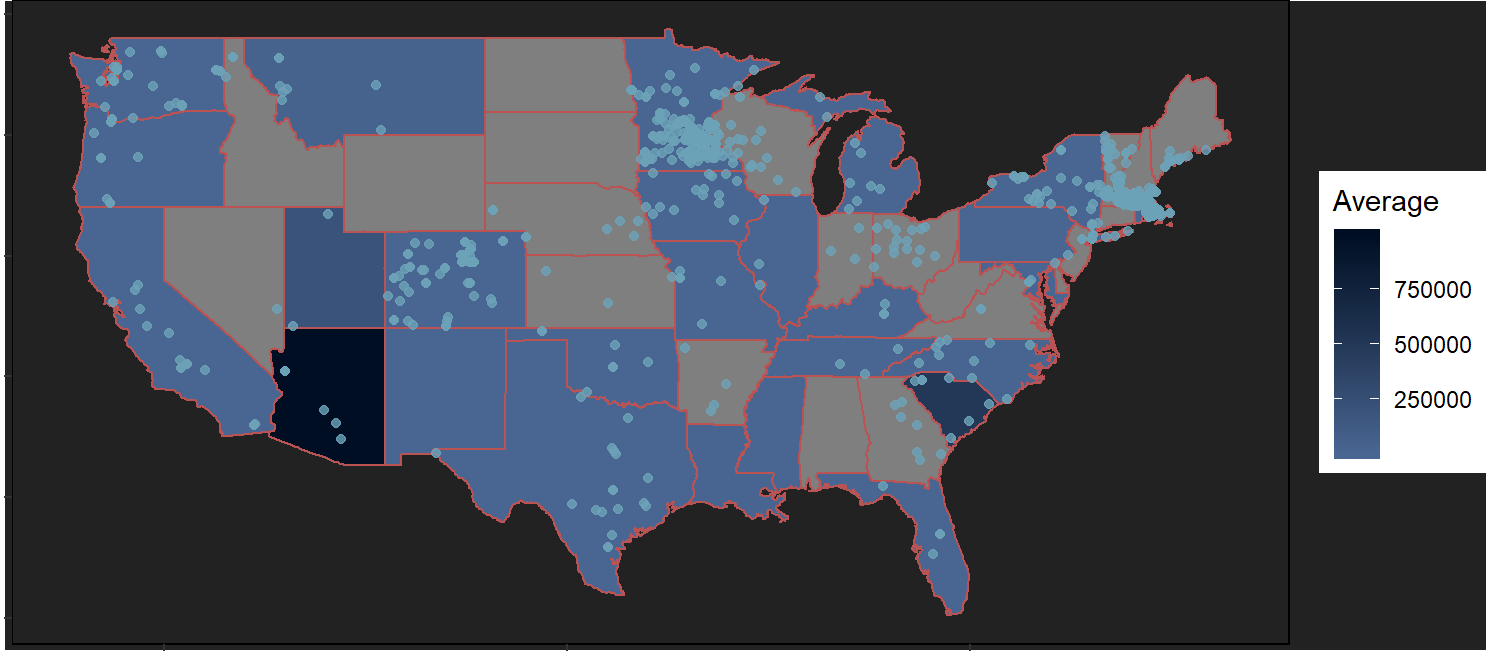
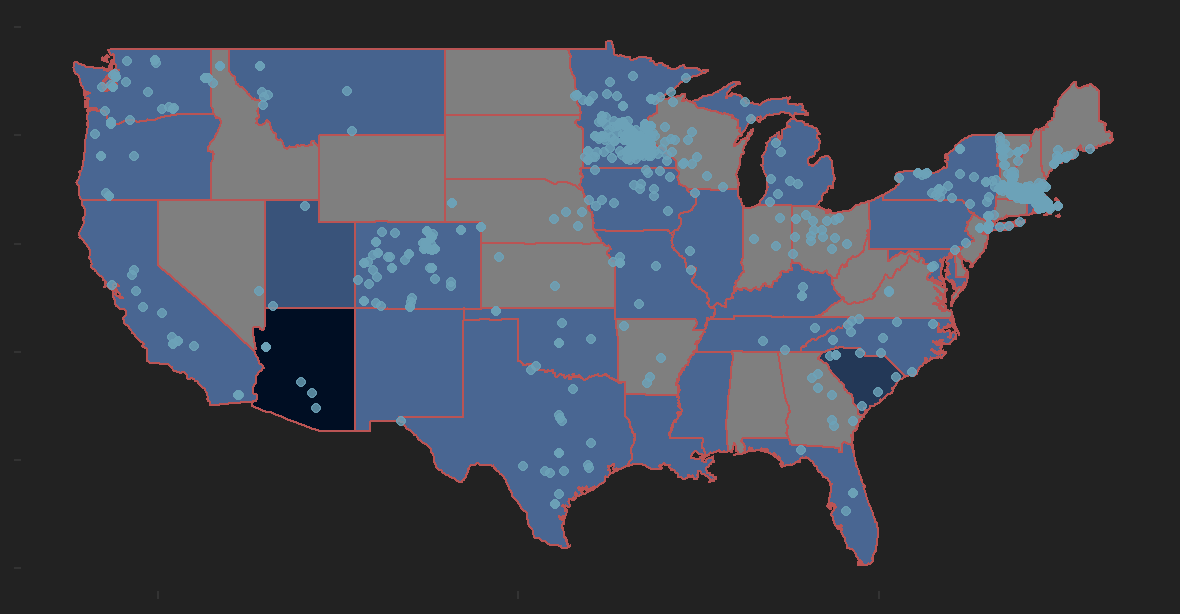
Commit

diff --git a/docs/index.html b/docs/index.html
@@ -395,6 +395,7 @@ div.tocify {
 color:black!important;
 }
 </style>
+
 <div id="introduction" class="section level1">
 <h1>Introduction</h1>
 <p>With the expansion of solar energy throughout the United States in the past year, community solar projects have become increasingly popular. Community solar projects often consist of a partnership between the public, government entities and the business sector to install solar energy throughout a community. The outcomes of such programs can be prosperous for all entities involved. Although a seemingly common sense solution to part of the nation’s energy challenge, community solar projects are a relatively new concept and spatial trends in where these projects are taking place.</p>
@@ -490,11 +491,43 @@ kwh_mean_state$State &lt;- tolower(kwh_mean_state$State)</code></pre>
 <li>Create custom themes (with and without legend)</li>
 </ol>
 <pre class="r"><code>#Create Custom theme 
-theme_black_nol&lt;- theme(plot.background = element_rect(fill = &#39;#222222&#39;), panel.background = element_rect(fill = NA),panel.border = element_rect(fill = NA), panel.grid = element_line(color = NA), axis.title = element_blank(), legend.position = &quot;none&quot;, plot.margin = unit(c(0,0,0,0),&quot;cm&quot;), axis.text = element_blank(), axis.line = element_blank())
+theme_black_nol&lt;- theme(
+  plot.background = element_rect(fill = &#39;#222222&#39;), 
+  panel.background = element_rect(fill = NA),
+  panel.border = element_rect(fill = NA), 
+  panel.grid = element_line(color = NA), 
+  axis.title = element_blank(), 
+  legend.position = &quot;none&quot;, 
+  plot.margin = unit(c(0,0,0,0),&quot;cm&quot;), 
+  axis.text = element_blank(), 
+  axis.line = element_blank()
+  )
 
-theme_black&lt;- theme(plot.background = element_rect(fill = &#39;#222222&#39;), panel.background = element_rect(fill = NA),panel.border = element_rect(fill = NA), panel.grid = element_line(color = NA), axis.title = element_blank(), plot.margin = unit(c(0,0,0,0),&quot;cm&quot;), axis.text = element_blank(), axis.line = element_blank())
+theme_black&lt;- theme(
+  plot.background = element_rect(fill = &#39;#222222&#39;), 
+  panel.background = element_rect(fill = NA),
+  panel.border = element_rect(fill = NA), 
+  panel.grid = element_line(color = NA), 
+  axis.title = element_blank(), 
+  plot.margin = unit(c(0,0,0,0),&quot;cm&quot;), 
+  axis.text = element_blank(), 
+  axis.line = element_blank()
+  )
 
-theme_black_blank&lt;- theme(plot.background = element_rect(fill = element_blank()), panel.background = element_rect(fill = element_blank()),panel.border = element_rect(fill = element_blank()), panel.grid = element_line(color = element_blank()), axis.title = element_blank(), plot.margin = unit(c(0,0,0,0),&quot;cm&quot;), axis.text = element_blank(), axis.line = element_blank(), legend.position = &quot;none&quot;)</code></pre>
+theme_black_blank&lt;- theme(
+    panel.background = element_rect(fill = &quot;transparent&quot;), # bg of the panel
+    plot.background = element_rect(fill = &quot;#222222&quot;, color = &quot;#222222&quot;), # bg of the plot
+    panel.grid.major = element_blank(), # get rid of major grid
+    panel.grid.minor = element_blank(), # get rid of minor grid
+    legend.background = element_rect(fill = &quot;transparent&quot;), # get rid of legend bg
+    legend.box.background = element_rect(fill = &quot;transparent&quot;), # get rid of legend panel bg
+    panel.border = element_blank(), 
+    axis.title = element_blank(), 
+    axis.text = element_blank(), 
+    axis.line = element_line(&quot;transparent&quot;), 
+    legend.position = &quot;none&quot;
+
+  )</code></pre>
 <ol start="7" style="list-style-type: decimal">
 <li>Create spatial distribution plot to identify locations of projects</li>
 </ol>
@@ -505,7 +538,7 @@ plot1 &lt;- ggplot()+
   geom_polygon(data = state_geom, aes(x = long, y = lat, group = group ), fill = &#39;#222222&#39;, col = &quot;#ba5454&quot;)+
   coord_fixed(ratio = 1.2)+
   geom_point(NREL_Data, mapping = aes(x = Longitude , y = Latitude, alpha = .85), col = &quot;#6ca2b8&quot;)+
-  theme_black_nol</code></pre>
+  theme_black_blank</code></pre>
 <ol start="8" style="list-style-type: decimal">
 <li>Plot Spatial Distribution along w/ shaded mean incentive per state</li>
 </ol>
@@ -515,7 +548,7 @@ plot2 &lt;- ggplot()+
   geom_polygon(data = DSIRE_program_table2, aes(x = long, y = lat, group = group, fill = Average), col = &quot;#ba5454&quot;)+
   coord_fixed(1.2)+
   geom_point(NREL_Data, mapping = aes(x = Longitude , y = Latitude), col = &quot;#6ca2b8&quot;, alpha = .8)+
-  theme_black+
+  theme_black_blank+
   scale_fill_gradient(low = &quot;#496692&quot;, high = &quot;#000E23&quot;)</code></pre>
 <ol start="9" style="list-style-type: decimal">
 <li>Plot spatial distribution along w/ shaded quantity incentives per state</li>
@@ -526,15 +559,25 @@ plot3 &lt;- ggplot()+
   geom_polygon(data = DSIRE_program_table3, aes(x = long, y = lat, group = group, fill = Total), col = &quot;#ba5454&quot;)+
   coord_fixed(1.2)+
   geom_point(NREL_Data, mapping = aes(x = Longitude , y = Latitude), col = &quot;#6ca2b8&quot;, alpha = .8)+
-  theme_black+
+  theme_black_blank+
   scale_fill_gradient(low = &quot;#496692&quot;, high = &quot;#000E23&quot;)</code></pre>
 <hr />
 </div>
 <div id="results" class="section level1">
 <h1>Results</h1>
-<p>Spatial Distibution of Community Solar Installations - Provided by NREL <img src="index_files/figure-html/unnamed-chunk-9-1.png" width="724.8" /> <br><br> Spatial Distibution of Community Solar Installations w/ Incentives shaded per $ - Provided by NREL &amp; DSIRE data <img src="index_files/figure-html/unnamed-chunk-10-1.png" width="746.4" /> <br><br></p>
-<p>Spatial Distibution of Community Solar Installations w/ Incentives shaded per quantity - Provided by NREL &amp; DSIRE data <img src="index_files/figure-html/unnamed-chunk-11-1.png" width="746.4" /></p>
+<div id="spatial-distibution-of-community-solar-installations---provided-by-nrel" class="section level3">
+<h3>Spatial Distibution of Community Solar Installations - Provided by NREL</h3>
+<p><img src="index_files/figure-html/unnamed-chunk-9-1.png" width="590.4" style="display: block; margin: auto;" /> <br> <br></p>
+</div>
+<div id="spatial-distibution-of-community-solar-installations-w-incentives-shaded-per---provided-by-nrel-dsire-data" class="section level3">
+<h3>Spatial Distibution of Community Solar Installations w/ Incentives shaded per $ - Provided by NREL &amp; DSIRE data</h3>
+<p><img src="index_files/figure-html/unnamed-chunk-10-1.png" width="590.4" style="display: block; margin: auto;" /> <br> <br></p>
+</div>
+<div id="spatial-distibution-of-community-solar-installations-w-incentives-shaded-per-quantity---provided-by-nrel-dsire-data" class="section level3">
+<h3>Spatial Distibution of Community Solar Installations w/ Incentives shaded per quantity - Provided by NREL &amp; DSIRE data</h3>
+<p><img src="index_files/figure-html/unnamed-chunk-11-1.png" width="590.4" style="display: block; margin: auto;" /></p>
 <hr />
+</div>
 </div>
 <div id="conclusion" class="section level1">
 <h1>Conclusion</h1>
